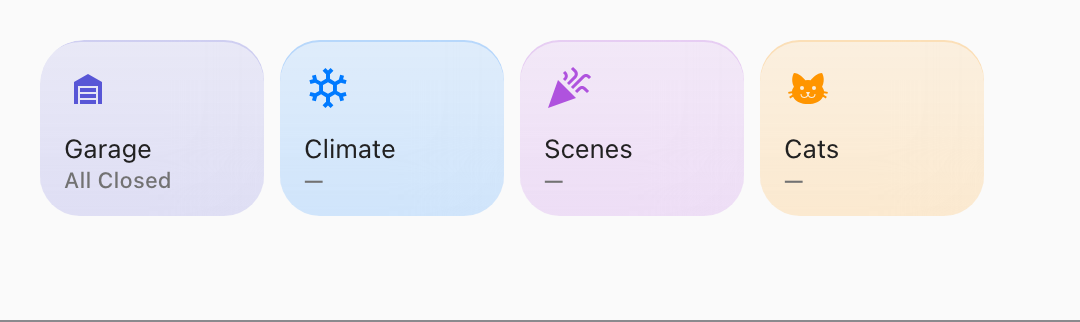
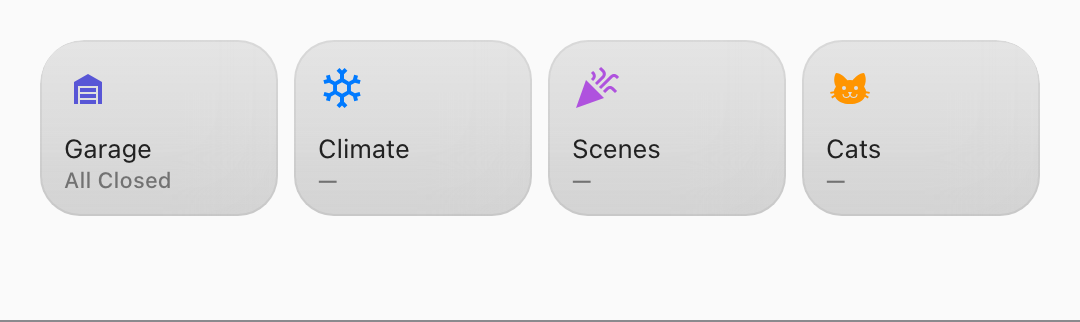
docs(tiles): regenerate the tile shots, and add one for wash: always
pnpm shots after the four fixes. Only the tile images changed (the chips shots are
byte-identical, because the dev stub's ha-icon never had the line-box problem the
glyph fix addresses). The tiles now fill the 500 section four across at 119 each,
rest as plain glass with only the glyph coloured, and have even corners. The new
tiles-always shot is the same set with wash: always, i.e. v1.13.0's look less the
crescent rim, and is shown in the rules doc's new section 3a.

diff --git a/dev/shots.ts b/dev/shots.ts
@@ -405,9 +405,18 @@ const SHOTS: readonly Shot[] = [
   },
   {
     name: 'tiles-glass',
-    caption: 'four shortcut tiles on glass, each tinted for what it is',
+    caption: 'four shortcut tiles on glass sharing the row, each glyph tinted for what it is',
     tag: TILES_CARD_TAG,
     config: tilesShot('shortcuts'),
+    columns: 12,
+    rows: 2,
+    theme: 'light',
+  },
+  {
+    name: 'tiles-always',
+    caption: 'wash: always, every tile filled with its colour at rest',
+    tag: TILES_CARD_TAG,
+    config: tilesShot('shortcuts', { wash: 'always' }),
     columns: 12,
     rows: 2,
     theme: 'light',

diff --git a/docs/tiles-widget-rules.md b/docs/tiles-widget-rules.md
@@ -141,6 +141,11 @@ advance:
 hover`). At rest it is the plain glass or surface tile, and only its glyph carries the colour.
 `wash: always` is v1.13.0's tile, washed at rest, exactly as it was.
 
+<p align="center">
+  <img src="images/tiles-always.png" width="420"
+       alt="The same four tiles with wash: always, each filled with a light wash of its colour">
+</p>
+
 The default is the first live dashboard's choice. What it buys is a resting grid that reads as
 one family of plain tiles, told apart by their glyphs, with the colour arriving as the answer to
 a pointer or a finger, where it says "this is a button".
